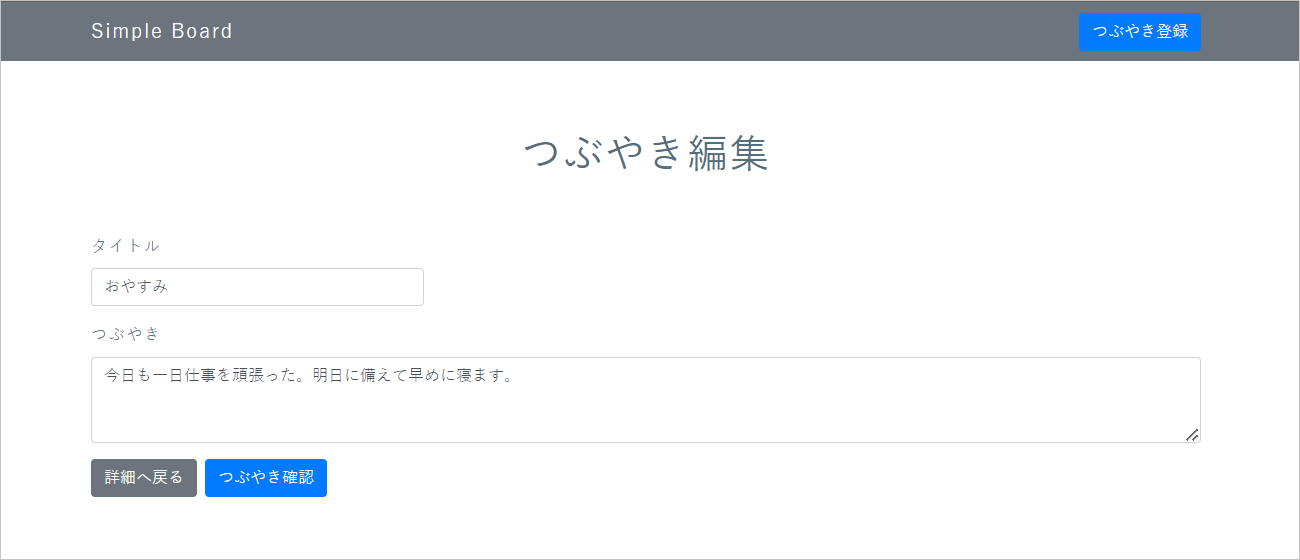
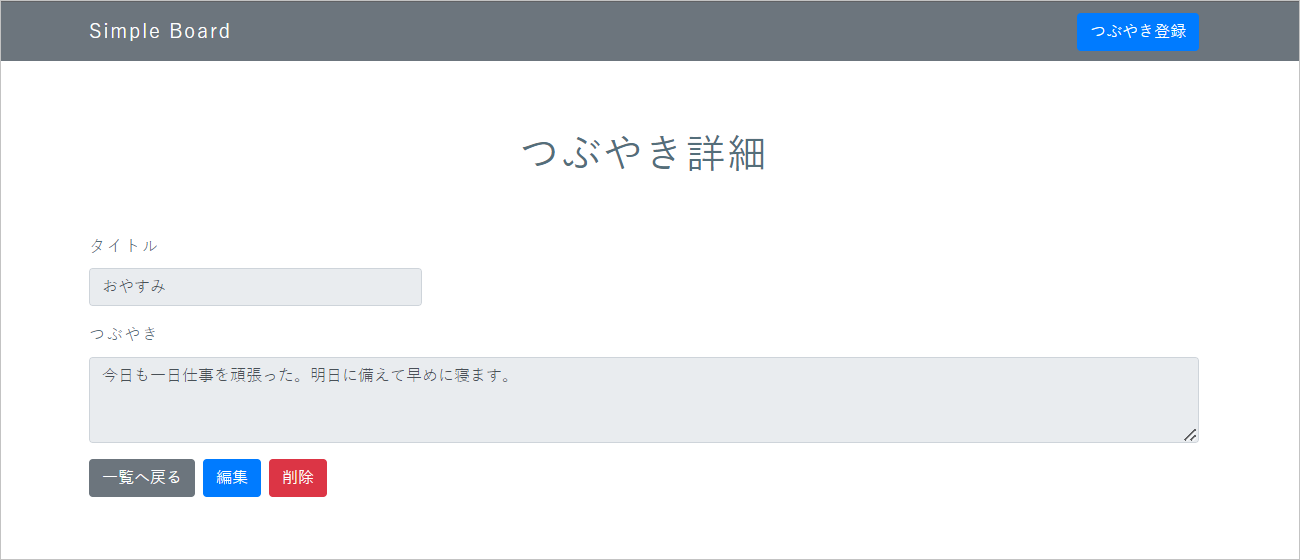
つぶやき更新機能の実装課題に「つぶやき詳細画面」修正概要の記載を追加

diff --git a/java/03_springboot/02_develop/sprint_04.md b/java/03_springboot/02_develop/sprint_04.md
@@ -59,52 +59,72 @@
 |-|||createConfirm|BoardForm, BindingResult, Model|String|「つぶやき登録画面」で入力されたデータをバリデーションチェックする。<br>「つぶやき登録画面」で入力されたデータを「つぶやき登録確認画面」のViewへ渡す。|
 |-|||createGoBack|BoardForm, Model|String|「つぶやき登録確認画面」に設定されたデータを「つぶやき登録画面」のViewへ渡す。|
 |-|||store|BoardForm, BindingResult, Model, RedirectAttributes|String|「つぶやき登録確認画面」に設定されたデータをバリデーションチェックする。<br>「つぶやき登録確認画面」に設定されたデータをboardsテーブルに登録する。<br>「タイムライン画面」へリダイレクトする。|
-|★|||edit|int, Model|String|つぶやき編集画面のViewを呼び出す。|
+|★|||edit|int, Model|String|「つぶやき編集画面」のViewを呼び出す。|
 |★|||editConfirm|BoardForm, BindingResult, int, Model|String|「つぶやき編集画面」で入力されたデータをバリデーションチェックする。<br>「つぶやき編集画面」で入力されたデータを「つぶやき編集確認画面」のViewへ渡す。|
 |★|||editGoBack|BoardForm, int, Model|String|「つぶやき編集確認画面」に設定されたデータを「つぶやき編集画面」のViewへ渡す。|
-|★|||update|BoardForm, BindingResult, int, Model, RedirectAttributes|String|「つぶやき編集確認画面」に設定されたデータをバリデーションチェックする。<br>つぶやき編集確認画面に設定されたデータをboardsテーブルへ更新する。<br>「タイムライン画面」へリダイレクトする。|
+|★|||update|BoardForm, BindingResult, int, Model, RedirectAttributes|String|「つぶやき編集確認画面」に設定されたデータをバリデーションチェックする。<br>「つぶやき編集確認画面」に設定されたデータをboardsテーブルへ更新する。<br>「タイムライン画面」へリダイレクトする。|
 |-|Model|BoardService.java<br>（インターフェース）|getAll|-|List\<Board>|boardsテーブルのレコードを全件取得するようdaoに指示する。|
 |-|||getBoard|int|Board|つぶやきIDを元にboardsテーブルのレコードを1件取得するようdaoに指示する。|
-|-|||save|void|Board|Boardエンティティのデータをboardsテーブルへ1件登録するようdaoに指示する。|
-|★|||update|void|Board|Boardエンティティのデータをboardsテーブルへ1件更新するようdaoに指示する。|
+|-|||save|Board|void|Boardエンティティのデータをboardsテーブルへ1件登録するようdaoに指示する。|
+|★|||update|Board|void|Boardエンティティのデータをboardsテーブルへ1件更新するようdaoに指示する。|
 |-||BoardServiceImpl.java<br>（インターフェース実装クラス）|getAll|-|List\<Board>|boardsテーブルのレコードを全件取得するようdaoに指示する。|
 |-|||getBoard|int|Board|つぶやきIDを元にboardsテーブルのレコードを1件取得するようdaoに指示する。|
-|-|||save|void|Board|Boardエンティティのデータをboardsテーブルへ1件登録するようdaoに指示する。|
-|★|||update|void|Board|Boardエンティティのデータをboardsテーブルへ1件更新するようdaoに指示する。|
+|-|||save|Board|void|Boardエンティティのデータをboardsテーブルへ1件登録するようdaoに指示する。|
+|★|||update|Board|void|Boardエンティティのデータをboardsテーブルへ1件更新するようdaoに指示する。|
 |-||BoardDao.java<br>（インターフェース）|findAll|-|List\<Board>|boardsテーブルのレコードを全件取得する。|
 |-|||findById|int|Board|つぶやきIDを元にboardsテーブルのレコードを1件取得する。|
-|-|||insert|void|Board|Boardエンティティのデータをboardsテーブルへ1件登録する。|
-|★|||update|void|Board|Boardエンティティのデータをboardsテーブルへ1件更新する。|
+|-|||insert|Board|void|Boardエンティティのデータをboardsテーブルへ1件登録する。|
+|★|||update|Board|void|Boardエンティティのデータをboardsテーブルへ1件更新する。|
 |-||BoardDaoImpl.java<br>（インターフェース実装クラス）|findAll|-|List\<Board>|boardsテーブルのレコードを「更新日/降順」で全件取得する。|
 |-|||findById|int|Board|つぶやきIDを元にboardsテーブルのレコードを1件取得する。|
-|-|||insert|void|Board|Boardエンティティのデータをboardsテーブルへ1件登録する。|
-|★|||update|void|Board|Boardエンティティのデータをboardsテーブルへ1件更新する。|
+|-|||insert|Board|void|Boardエンティティのデータをboardsテーブルへ1件登録する。|
+|★|||update|Board|void|Boardエンティティのデータをboardsテーブルへ1件更新する。|
 |-||BoardForm.java|-|-|-|boardsモデルのformクラス<br>フィールド変数、コンストラクタ、getter・setterを定義する。<br>入力項目のバリデーションチェック内容は以下の「バリデーション」参照。|
 |-||Board.java|-|-|-|boardsテーブルのEntityクラス<br>フィールド変数、コンストラクタ、getter・setterを定義する。|
 |-|View|index.html|-|-|-|タイムライン画面|
-|-||show.html|-|-|-|つぶやき詳細画面|
+|★||show.html|-|-|-|つぶやき詳細画面|
 |-||create.html|-|-|-|つぶやき登録画面|
 |-||create_confirm.html|-|-|-|つぶやき登録確認画面|
 |★||edit.html|-|-|-|つぶやき編集画面|
 |★||edit_confirm.html|-|-|-|つぶやき編集確認画面|
 
 ## 画面定義
-### つぶやき編集画面
-- 画面イメージ（編集ボタンから遷移）
+### つぶやき詳細画面
+- 画面イメージ
 
 ![01](/java/images/03_springboot/02_develop/sprint_04/01.PNG)
 
-- 画面イメージ（つぶやき編集確認画面から遷移）
+- 画面項目
+
+|対象|画面項目1|画面項目2|種別|備考|
+|:---:|:---:|:---:|:---:|:---:|
+|-|ヘッダ|ページタイトル|テキスト出力|「Simple Board」と表示する。<br>クリックすると「タイムライン画面」へ遷移する。|
+|-||「つぶやき登録」ボタン|ボタン|クリックすると「つぶやき登録画面」へ遷移する。<br>※現段階では実装不要|
+|-|画面タイトル|-|テキスト出力|「つぶやき詳細」と表示する。|
+|-|つぶやき詳細表示部|タイトルヘッダ|テキスト出力|「タイトル」と表示する。|
+|-||タイトル|テキストボックス|「タイムライン画面」で選択されたレコードのタイトルを表示する。<br>画面から編集できないよう「非活性」とする。|
+|-||つぶやきヘッダ|テキスト出力|「つぶやき」と表示する。|
+|-||つぶやき|テキストエリア|「タイムライン画面」で選択されたレコードのつぶやきを表示する。<br>画面から編集できないよう「非活性」とする。|
+|-|「一覧へ戻る」ボタン|-|ボタン|クリックすると「タイムライン画面」へ遷移する。|
+|★|「編集」ボタン|-|ボタン|クリックすると「つぶやき編集画面」へ遷移する。|
+|-|「削除」ボタン|-|ボタン|クリックすると「つぶやき削除ダイアログ」を表示する。<br>※現段階では実装不要|
+
+### つぶやき編集画面
+- 画面イメージ（編集ボタンから遷移）
 
 ![02](/java/images/03_springboot/02_develop/sprint_04/02.PNG)
 
-- 画面イメージ（必須チェックエラー）
+- 画面イメージ（つぶやき編集確認画面から遷移）
 
 ![03](/java/images/03_springboot/02_develop/sprint_04/03.PNG)
 
-- 画面イメージ（桁数チェックエラー）
+- 画面イメージ（必須チェックエラー）
 
 ![04](/java/images/03_springboot/02_develop/sprint_04/04.PNG)
+
+- 画面イメージ（桁数チェックエラー）
+
+![05](/java/images/03_springboot/02_develop/sprint_04/05.PNG)
 
 - 画面項目
 
@@ -127,11 +147,11 @@
 ### つぶやき編集確認画面
 - 画面イメージ（初期表示）
 
-![05](/java/images/03_springboot/02_develop/sprint_04/05.PNG)
+![06](/java/images/03_springboot/02_develop/sprint_04/06.PNG)
 
 - 画面イメージ（つぶやき更新確認ダイアログ）
 
-![06](/java/images/03_springboot/02_develop/sprint_04/06.PNG)
+![07](/java/images/03_springboot/02_develop/sprint_04/07.PNG)
 
 - 画面項目
 
@@ -158,7 +178,7 @@
 ### タイムライン画面
 - 画面イメージ（フラッシュメッセージ）
 
-![07](/java/images/03_springboot/02_develop/sprint_04/07.PNG)
+![08](/java/images/03_springboot/02_develop/sprint_04/08.PNG)
 
 - 画面項目
 
@@ -205,4 +225,4 @@
 |対象|画面|表示契機|フラッシュメッセージ|
 |:---:|:---:|:---:|:---:|
 |-|タイムライン画面|つぶやき登録成功時|つぶやきの登録に成功しました|
-|★|タイムライン画面|つぶやき更新成功時|つぶやきの更新に成功しました|
+|★||つぶやき更新成功時|つぶやきの更新に成功しました|
